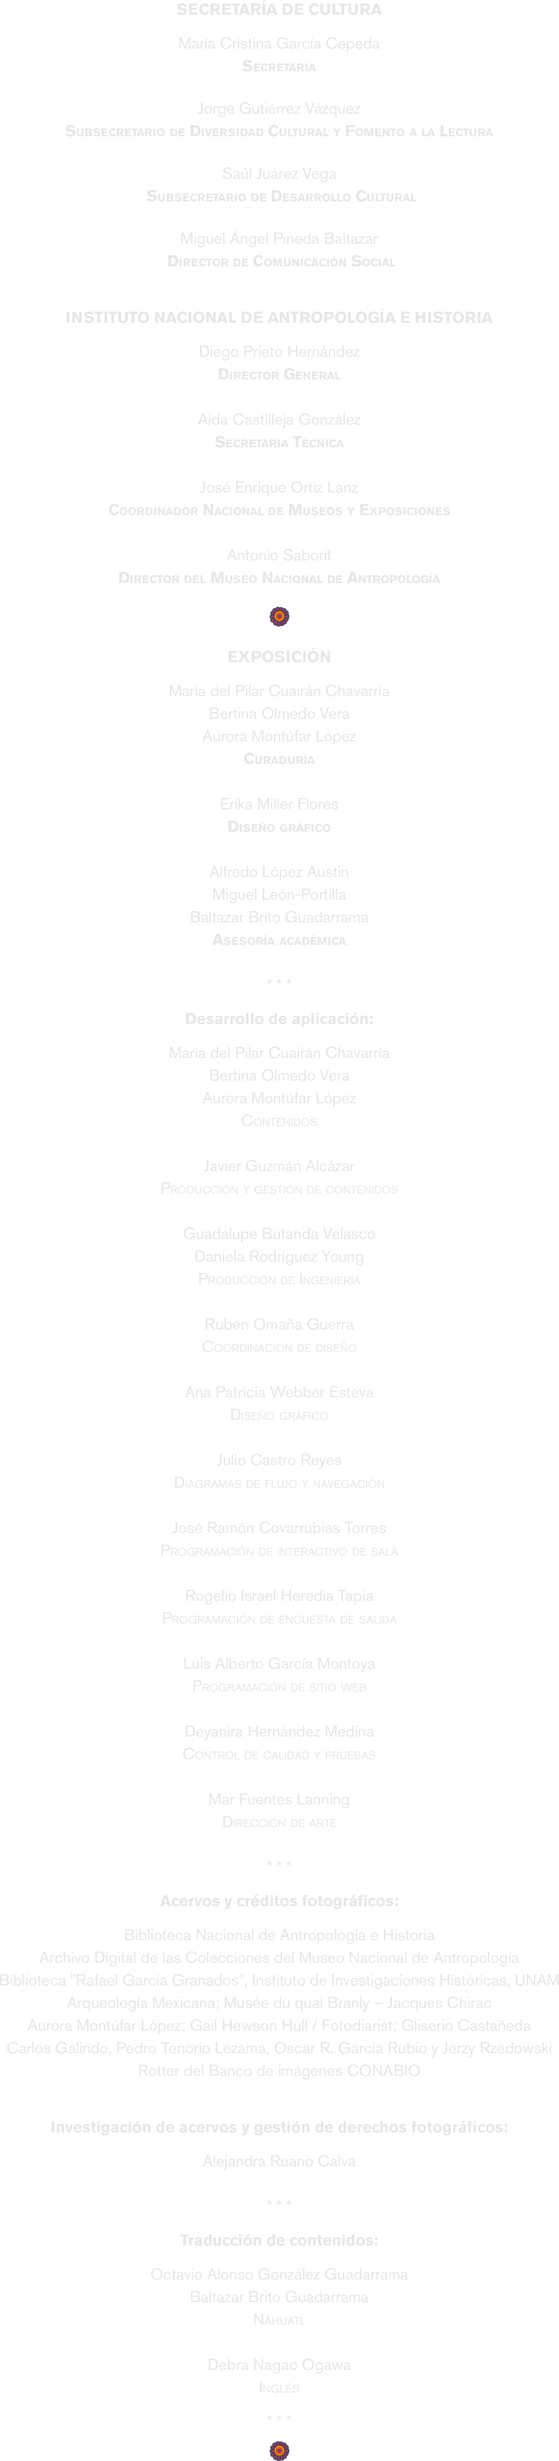
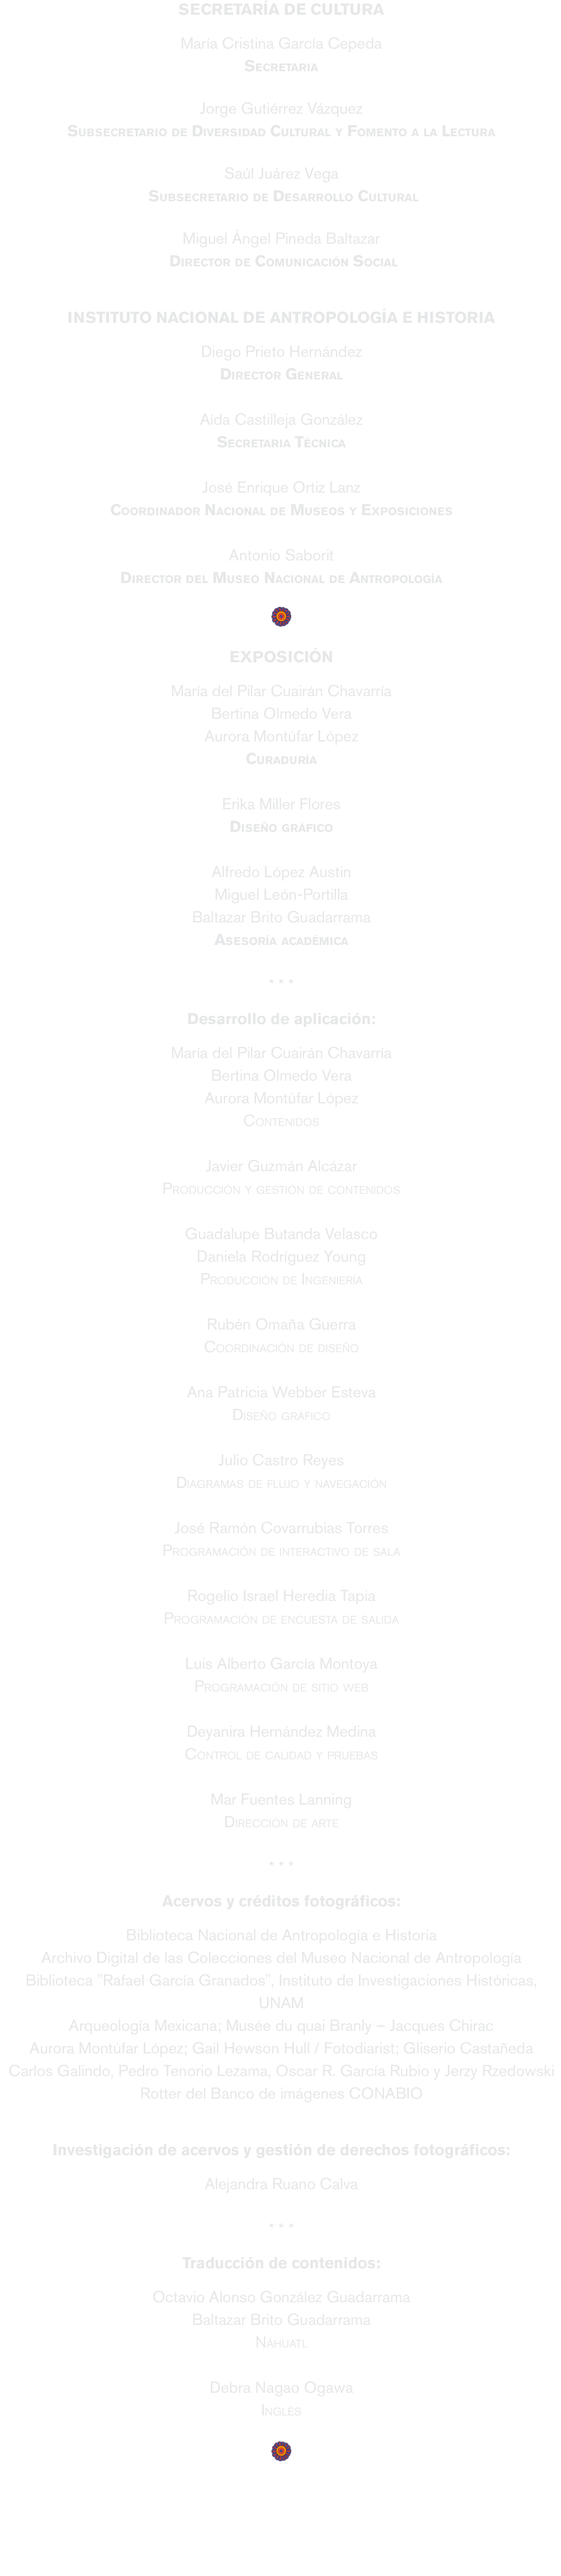
nueva versión de créditos

diff --git a/css/style.css b/css/style.css
@@ -1856,10 +1856,10 @@ body{
 
 
 .imagen_texto_creditos{
-	width: 991px;
-	height: 3960px;
+	width: 992px;
+	height: 4555px;
 	background: url("../images/p02-Home/slider/texto_creditos.png") !important;
-	background-size: 991px 3960px;
+	background-size: 992px 4555px;
 	position: relative;
 	left: 7px;
 	margin: 0 auto;
